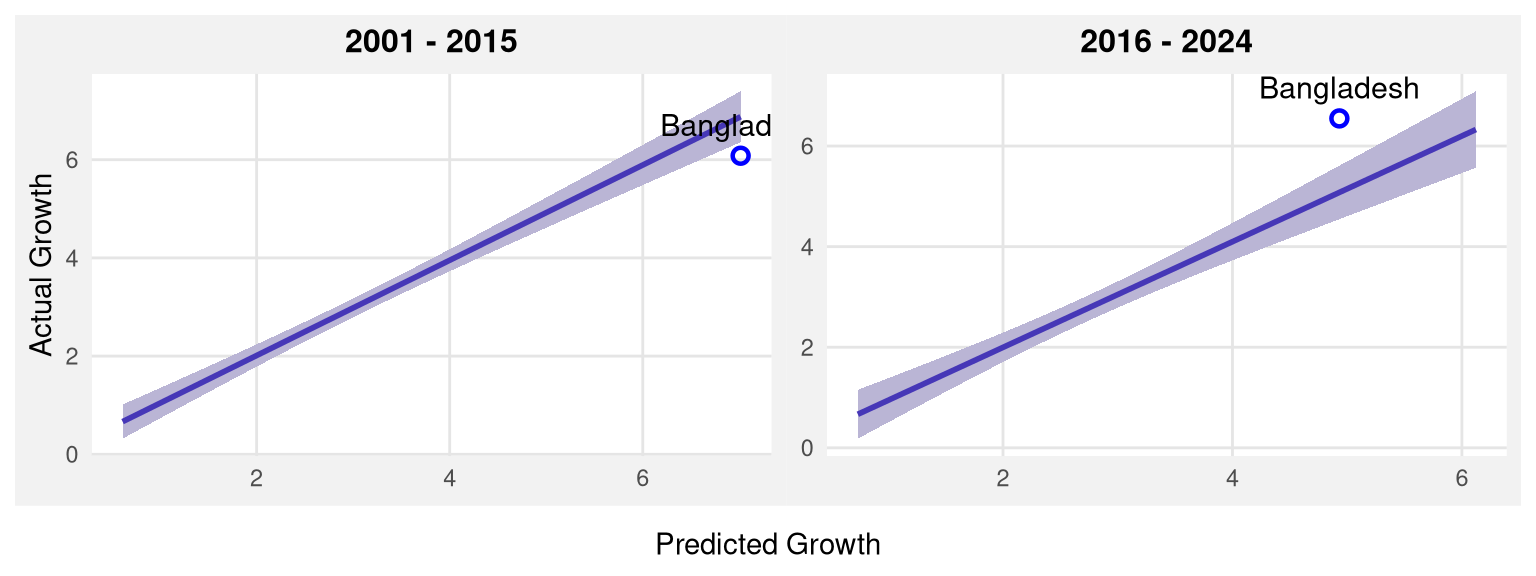
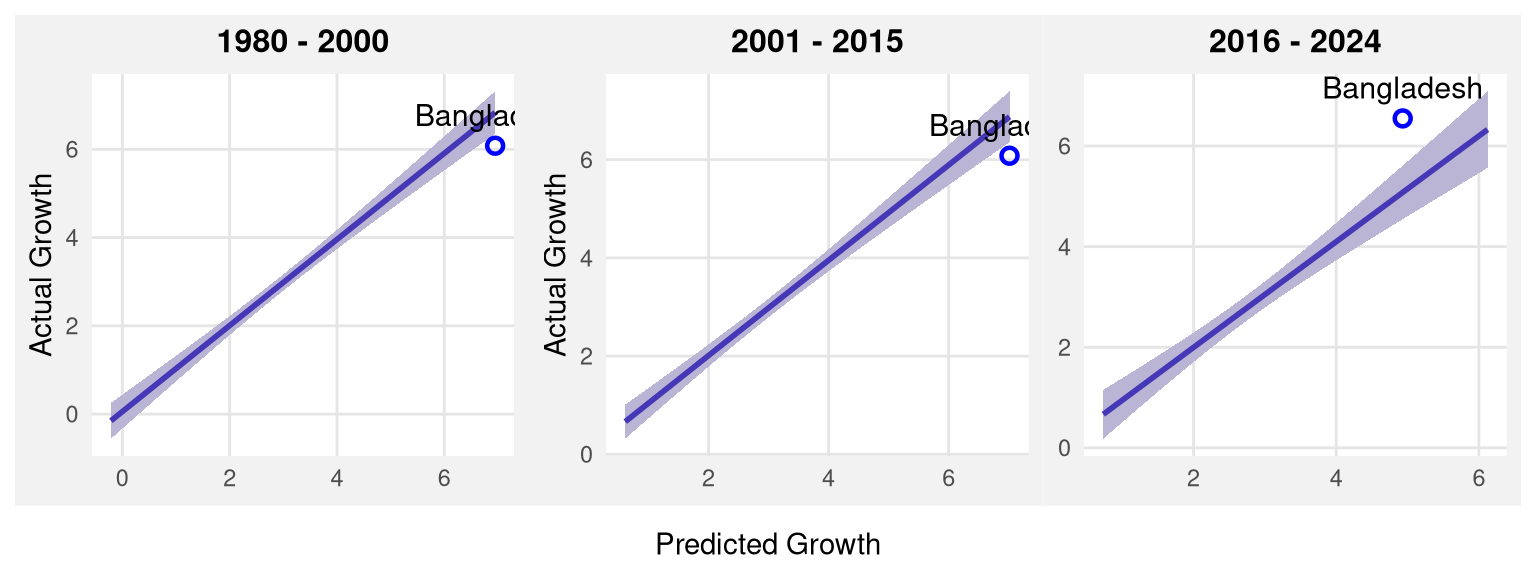
Removed only two period comparison

diff --git a/wb-gdp-estimate-analysis.html b/wb-gdp-estimate-analysis.html
@@ -146,7 +146,7 @@ Figure&nbsp;1: Comparison of growth rates of different macro variables
 <p>This bivariate analysis provides the mechanistic statistical foundation for the divergence paradox identified in the previously analyzed bar chart. While the bar diagram illustrated the absolute decoupling of period averages—highlighting accelerating GDP amidst decelerating macroeconomic fundamentals—the scatter plots expose the total breakdown of the historical covariance structure itself. The persistent leftward-and-upward migration of the 2016-2024 data clusters visually confirms that the official GDP metric has unmoored from its traditional macroeconomic determinants. Historically, as the 1996-2015 data illustrates, achieving a 6% GDP expansion frequently required 10% to 20% growth in exports or domestic credit. The contemporary data implies the economy now achieves and exceeds this output with near-zero or vastly diminished growth in those exact same inputs. This statistical decoupling strongly corroborates the prior diagnostic hypothesis: the recent acceleration in official aggregate output cannot be empirically reconciled with the underlying real economy dynamics, thereby amplifying academic concerns regarding systemic statistical overestimation rather than a genuine, productivity-driven structural transformation.</p>
 <div class="cell fig-cap-location-top" data-layout-align="center">
 <div class="cell-output-display">
-<div id="fig-scatter-all" class="quarto-float quarto-figure quarto-figure-center anchored" data-fig-align="center" data-cap-location="top">
+<div id="fig-scatter-all" class="quarto-float quarto-figure quarto-figure-center anchored" data-cap-location="top" data-fig-align="center">
 <figure class="quarto-float quarto-float-fig figure">
 <figcaption class="quarto-float-caption-top quarto-float-caption quarto-float-fig" id="fig-scatter-all-caption-0ceaefa1-69ba-4598-a22c-09a6ac19f8ca">
 Figure&nbsp;2: Scatter plots between GDP growth and macroeconomic variables
@@ -159,35 +159,18 @@ Figure&nbsp;2: Scatter plots between GDP growth and macroeconomic variables
 </div>
 </div>
 </section>
-<section id="comparison-since-2000" class="level3">
-<h3 class="anchored" data-anchor-id="comparison-since-2000">Comparison since 2000</h3>
-<div class="cell fig-cap-location-top" data-layout-align="center">
-<div class="cell-output-display">
-<div id="fig-scatter-2000" class="quarto-float quarto-figure quarto-figure-center anchored" data-fig-align="center" data-cap-location="top">
-<figure class="quarto-float quarto-float-fig figure">
-<figcaption class="quarto-float-caption-top quarto-float-caption quarto-float-fig" id="fig-scatter-2000-caption-0ceaefa1-69ba-4598-a22c-09a6ac19f8ca">
-Figure&nbsp;3: Scatter plots between GDP growth and macroeconomic variables
-</figcaption>
-<div aria-describedby="fig-scatter-2000-caption-0ceaefa1-69ba-4598-a22c-09a6ac19f8ca">
-<img src="wb-gdp-estimate-analysis_files/figure-html/fig-scatter-2000-1.png" class="img-fluid quarto-figure quarto-figure-center figure-img" style="width:85.0%">
-</div>
-</figure>
-</div>
-</div>
-</div>
-</section>
 </section>
 <section id="regression-results" class="level2">
 <h2 class="anchored" data-anchor-id="regression-results">Regression results</h2>
-<p>Building upon the bivariate breakdown illustrated in the preceding scatter plots, the <a href="#fig-reg-pred" class="quarto-xref">Figure&nbsp;4</a> presents a formalized econometric synthesis by plotting actual versus predicted real GDP growth for Bangladesh across two temporal regimes: 2001-2015 and 2016-2024. The visualization features a regression line with an accompanying confidence interval, mapping the expected trajectory of aggregate output based on a predictive model—presumably a function of the underlying macroeconomic fundamentals analyzed in the previous sections. A rigorous examination of this figure provides definitive statistical quantification of the divergence paradox. During the 2001-2015 period, the observation for Bangladesh lies in close proximity to the regression line and firmly near the predictive confidence bounds. In this era, the actual reported real GDP growth (approximately 6%) is highly consistent with the predicted growth, indicating that the official aggregate output figures were statistically grounded in and accurately reflected the contemporary macroeconomic realities of trade, investment, and energy consumption.</p>
+<p>Building upon the bivariate breakdown illustrated in the preceding scatter plots, the <a href="#fig-reg-pred" class="quarto-xref">Figure&nbsp;3</a> presents a formalized econometric synthesis by plotting actual versus predicted real GDP growth for Bangladesh across two temporal regimes: 2001-2015 and 2016-2024. The visualization features a regression line with an accompanying confidence interval, mapping the expected trajectory of aggregate output based on a predictive model—presumably a function of the underlying macroeconomic fundamentals analyzed in the previous sections. A rigorous examination of this figure provides definitive statistical quantification of the divergence paradox. During the 2001-2015 period, the observation for Bangladesh lies in close proximity to the regression line and firmly near the predictive confidence bounds. In this era, the actual reported real GDP growth (approximately 6%) is highly consistent with the predicted growth, indicating that the official aggregate output figures were statistically grounded in and accurately reflected the contemporary macroeconomic realities of trade, investment, and energy consumption.</p>
 <p>In stark contrast, the 2016-2024 panel exposes a profound structural break and a massive prediction error. While the predicted growth for Bangladesh contracts significantly—shifting leftward on the x-axis to approximately 5%—the actual reported growth accelerates, shifting upward on the y-axis. Consequently, the Bangladesh data point completely detaches from the established regression trend, manifesting as a large positive residual residing far outside the statistical confidence interval. This visualization serves as the macroeconomic capstone to the preceding bar and scatter charts. Because the hard proxies for economic activity (such as export volumes, domestic credit, and electricity consumption) collapsed during the 2016-2024 epoch, any rigorous econometric model will naturally predict a corresponding deceleration in aggregate output. The glaring reality that official GDP figures defied this downward prediction mathematically formalizes the anomaly. Ultimately, this predictive dislocation confirms that the recent acceleration in official GDP cannot be empirically justified by the nation’s underlying macroeconomic covariates, providing compelling econometric evidence that the reported growth figures during the 2016-2024 period are systematically unmoored from the real economy.</p>
 <!-- drawing the plots -->
 <div class="cell fig-cap-location-top" data-layout-align="center">
 <div class="cell-output-display">
-<div id="fig-reg-pred" class="quarto-float quarto-figure quarto-figure-center anchored" data-fig-align="center" data-cap-location="top">
+<div id="fig-reg-pred" class="quarto-float quarto-figure quarto-figure-center anchored" data-cap-location="top" data-fig-align="center">
 <figure class="quarto-float quarto-float-fig figure">
 <figcaption class="quarto-float-caption-top quarto-float-caption quarto-float-fig" id="fig-reg-pred-caption-0ceaefa1-69ba-4598-a22c-09a6ac19f8ca">
-Figure&nbsp;4: Actual vs.&nbsp;Predicted Real GDP Growth for Bangladesh
+Figure&nbsp;3: Actual vs.&nbsp;Predicted Real GDP Growth for Bangladesh
 </figcaption>
 <div aria-describedby="fig-reg-pred-caption-0ceaefa1-69ba-4598-a22c-09a6ac19f8ca">
 <img src="wb-gdp-estimate-analysis_files/figure-html/fig-reg-pred-1.png" class="img-fluid quarto-figure quarto-figure-center figure-img" style="width:85.0%">
